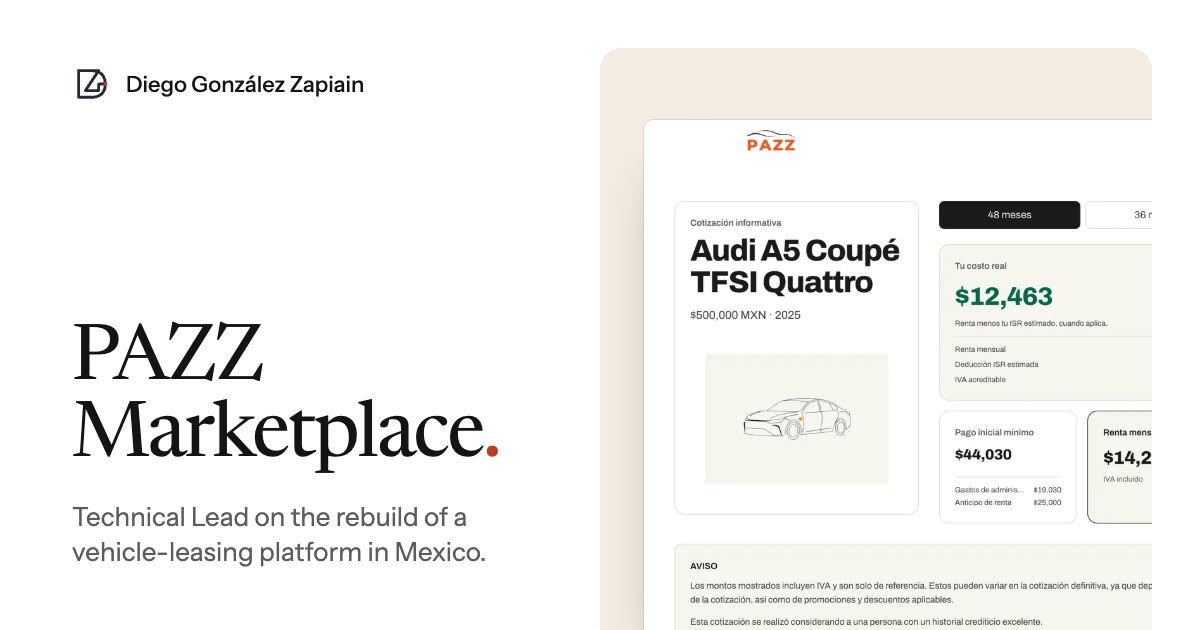
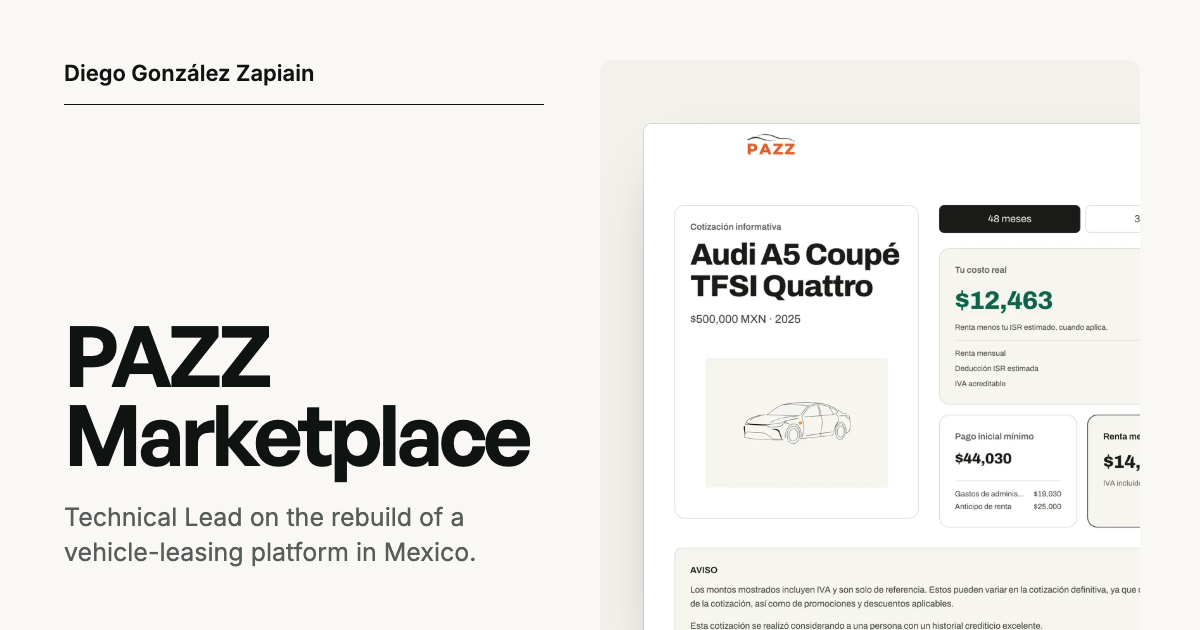
docs(site): social cards and README for the Index design
The 1200x630 cards use the new tokens and fonts: the name over a rule, the
title in General Sans, and the product on a bone or night plate. The README
describes the new system, the font licences and the motion.

Claude-Session: https://claude.ai/code/session_01JjfvEazZKSPZzUg171hwGD

diff --git a/README.md b/README.md
@@ -2,7 +2,7 @@
 
 The source for [dgonzap30.github.io](https://dgonzap30.github.io/), the personal site of Diego González Zapiain: founder-engineer in Mexico City, co-founder of LOJIK, maker of Intertitle, and Technical Lead at PAZZ.
 
-The site is plain HTML, CSS and SVG with no runtime dependency. Every page reads and works without JavaScript; `assets/js/site.js` only adds previous/next buttons and a counter to product galleries.
+The site is plain HTML, CSS and SVG with no runtime dependency. Every page reads and works without JavaScript; `assets/js/site.js` only keeps the bar's clock current, adds previous/next buttons and a counter to product galleries, and shows a work row's preview beside the pointer.
 
 ## Routes
 
@@ -19,9 +19,11 @@ The site is plain HTML, CSS and SVG with no runtime dependency. Every page reads
 
 ## Design system
 
-LOJIK's family: a sage ground, near-black ink, one green that only marks proof (a verified date, a checked note), and the vermilion dot from the DGZ mark. Each product has its own tinted plate, and every capture rises from the plate's bottom edge, screens in a browser frame and phones in a fan. Newsreader sets display type; Instrument Sans sets everything else; mono is for code only. Tokens live in `assets/css/tokens.css`, and the contrast pairs are pinned by a test.
+An index on paper: warm white ground, near-black ink, two greys, hairline rules and one green that only marks proof (a verified date). Everything sits on a twelve-column grid with an 8px spacing scale. General Sans sets display type at size; Inter sets text at 13, 14 and 17px; mono is for code only. Tokens live in `assets/css/tokens.css`, and the contrast pairs are pinned by a test.
 
-Motion uses LOJIK's spring, pop, roll and press curves and stays in CSS: the home statement's words rise in place, each proof chip grows into a preview of its product, plates settle and drift with the scroll, the header pill narrows on a scroll timeline, the workflow series inks in as you read, and pages morph into each other with cross-document view transitions. `assets/js/site.js` only sets the variables CSS needs (nav indicator, tile tilt, preview placement) and hands an open preview its view-transition name. Reduced motion turns all of it off, and every page works without JavaScript.
+General Sans ships as the foundry's unmodified OpenType files under the ITF Free Font License (`assets/fonts/LICENSE-FFL.txt`); the FFL forbids converting or subsetting them, and a test pins their hashes. Inter ships under the SIL Open Font License (`assets/fonts/OFL-Inter.txt`). No font service is used.
+
+Motion stays in CSS: the home name rises in place, a hovered work row dims the others while its preview trails the pointer, and pages morph into each other with cross-document view transitions (a product's name in an index grows into its page's title). Reduced motion turns all of it off, and every page works without JavaScript.
 
 ## Generated pages
 
@@ -34,7 +36,7 @@ npm run build
 | Script | Writes |
 | --- | --- |
 | `build-chrome.mjs` | Shared head, header and footer into hand-written pages (between `chrome:*` markers) |
-| `build-work.mjs` | Work tiles, the "Also building" picker, "More work" and open source from `assets/data/work.json` |
+| `build-work.mjs` | The work index, "More work" and open source from `assets/data/work.json` |
 | `build-explorer.mjs` | `/demos/<product>/` pages and the PAZZ gallery from `assets/data/projects.json` |
 | `build-writing.mjs` | `/writing/`, `/feed.xml` and the home writing rows from `assets/data/writing.json` |
 | `build-workflow-pages.mjs` | `/workflow/` from `assets/data/workflow.json` |
